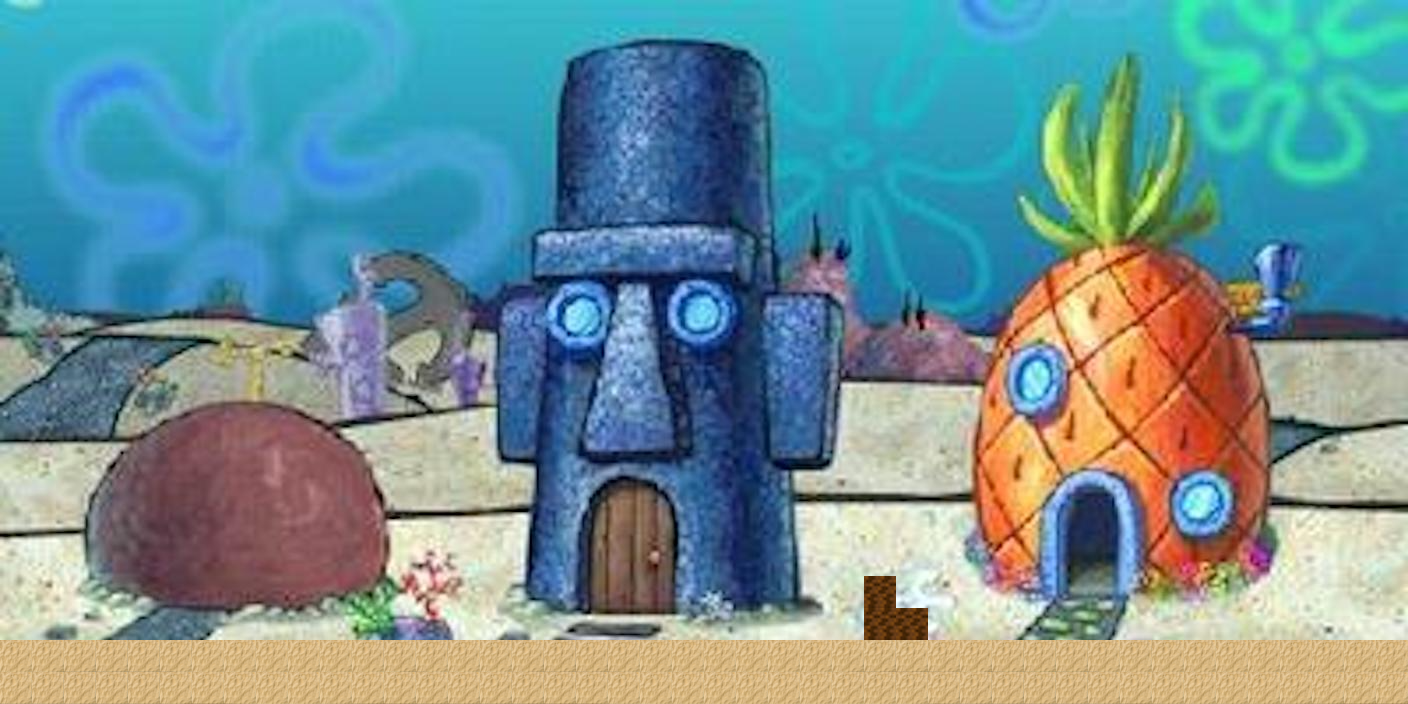
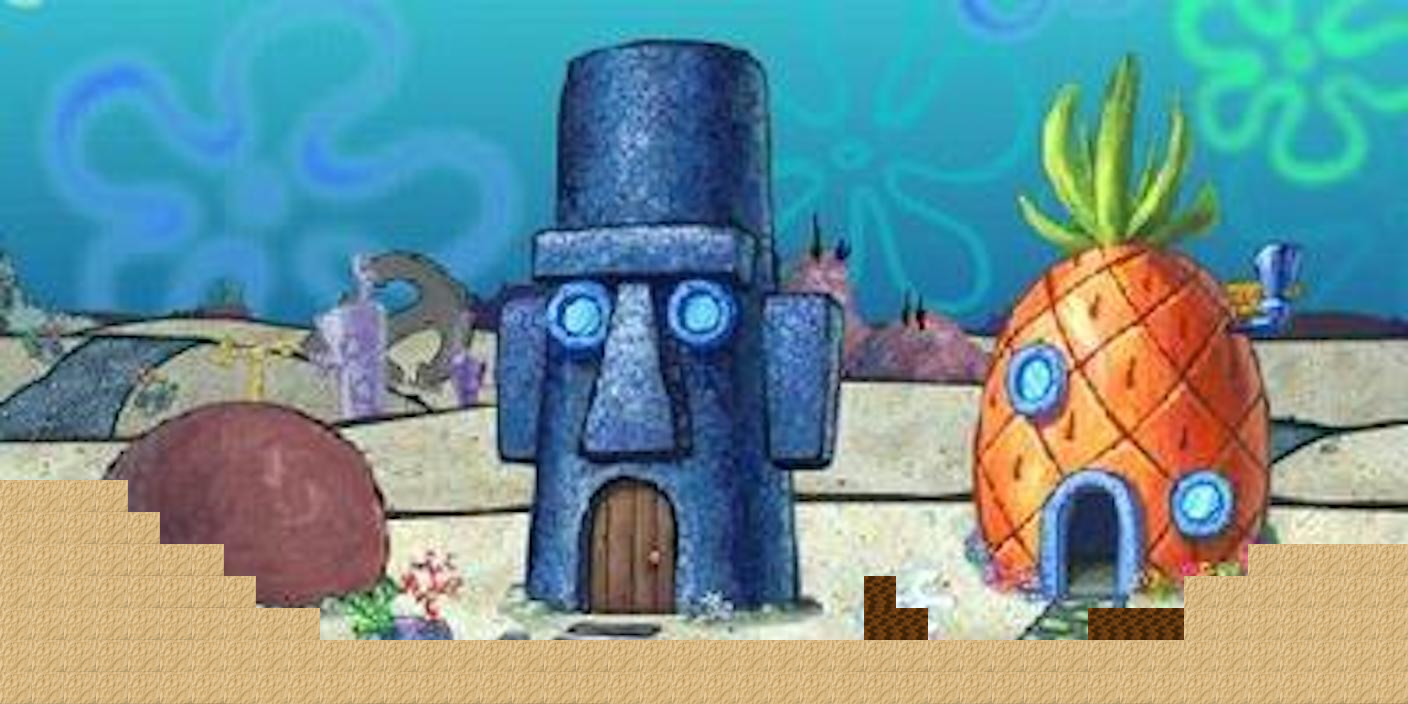
ecran de chargement terminé, manque plus que le menu et la gestion des armes + vies

Changed region(s): [[0.0, 0.6562, 0.25, 0.9062], [0.75, 0.75, 1.0, 0.9062]]

diff --git a/main.py b/main.py
@@ -4,6 +4,33 @@ from Class.gui import Angle, Energie
 from Class.joueur import Joueur, Bras
 from Class.monde import Monde
 
+chargement_etapes = 1
+
+pg.init()
+fenetre = pg.display.set_mode(RESOLUTION.size)
+
+
+def chargement():
+    font = pg.font.Font(None, 100)
+    nom_jeu = font.render("Projet Transverse", 1, (255, 255, 255))
+
+    fenetre.blit(nom_jeu, (400, 200))
+
+    pg.draw.rect(
+        fenetre, pg.color.Color('white'),
+        (300, 375, 825, 35)  # (abscisse,ordonné,longuer,hauteur)
+    )
+    pg.draw.rect(
+        fenetre, pg.color.Color('cadetblue4'),
+        (300, 375, 55 * chargement_etapes, 35)
+        # (abscisse,ordonné,longueur,hauteur)
+    )
+
+    pg.display.flip()
+
+
+chargement()
+
 
 def chargement_textures(theme: str):
     """
@@ -19,6 +46,8 @@ def chargement_textures(theme: str):
             texture_joueurs (list): Tableau avec les textures du joueur 1 et 2 ainsi que où ils regardent
             texture_bras (list): Tableau avec les textures du bras des joueurs 1 et 2 ainsi que où ils pointent
     """
+    global chargement_etapes
+
     texture_joueurs = [
         # Joueur 1
         {  # -1 Pour quand le joueur regarde a gauche
@@ -61,6 +90,9 @@ def chargement_textures(theme: str):
         }
     ]
 
+    chargement_etapes += 1
+    chargement()
+
     texture_bras = [
         {  # meme idée que plus haut mais cette foi on enregistre les
             # bras dans un dict
@@ -93,10 +125,15 @@ def chargement_textures(theme: str):
         texture_bras[1][-1][i] = pg.transform.flip(image_joueur2, True, False)
         texture_bras[1][1][i] = image_joueur2
 
+        chargement_etapes += 1
+        chargement()
+
     return texture_joueurs, texture_bras
 
 
-def chargement_niveau(screen, theme: str, id_niveau: int):
+def chargement_niveau(theme: str, id_niveau: int):
+    global chargement_etapes
+
     monde = Monde(theme)
     monde.chargement_map(1)
     monde.enregistrement_map()
@@ -109,64 +146,81 @@ def chargement_niveau(screen, theme: str, id_niveau: int):
                 id_niveau
             )).convert_alpha(),
         (0, 0))
-    screen.blit(fond, (0, 0))
+    fenetre.blit(fond, (0, 0))
     pg.display.flip()
+
+    chargement_etapes += 1
+    chargement()
 
     return monde, fond
 
 
-def application_texture(screen, monde, texture_joueurs, texture_bras, toutes_les_images):
+def application_texture(monde, texture_joueurs, texture_bras,
+                        toutes_les_images):
+    global chargement_etapes
+
     Joueur.containers = toutes_les_images
     Bras.containers = toutes_les_images
 
     joueur1 = Joueur(
-        screen.get_rect(),
+        fenetre.get_rect(),
         monde.params.get(1),
         texture_joueurs[0],
         regarde=1,  # vers ou doit le perso (1 : droite, -1 : gauche)
         peau=1  # peau du perso, 1 : joueur 1, 2 : joueur 2
     )
     joueur2 = Joueur(
-        screen.get_rect(),
+        fenetre.get_rect(),
         monde.params.get(2),
         texture_joueurs[1],
-        regarde=1,  # vers ou doit le perso (1 : droite, -1 : gauche)
+        regarde=-1,  # vers ou doit le perso (1 : droite, -1 : gauche)
         peau=2  # peau du perso, 1 : joueur 1, 2 : joueur 2
     )
 
+    chargement_etapes += 1
+    chargement()
+
     bras1 = Bras(
-        screen.get_rect(),
+        fenetre.get_rect(),
         monde.params.get(1),
         texture_bras[0],
         regarde=1,  # vers ou doit pointer le bras (1 : droite, -1 : gauche)
         peau=1  # bras du perso, 1 : joueur 1, 2 : joueur 2
     )
     bras2 = Bras(
-        screen.get_rect(),
+        fenetre.get_rect(),
         monde.params.get(2),
         texture_bras[1],
-        regarde=1,  # vers ou doit pointer le bras (1 : droite, -1 : gauche)
+        regarde=-1,  # vers ou doit pointer le bras (1 : droite, -1 : gauche)
         peau=2  # bras du perso, 1 : joueur 1, 2 : joueur 2
     )
+
+    chargement_etapes += 1
+    chargement()
 
     return joueur1, bras1, joueur2, bras2
 
 
 def main(theme: str, id_niveau: int):
-    pg.init()
     clock = pg.time.Clock()
     tour = 1
 
-    screen = pg.display.set_mode(RESOLUTION.size)
+    chargement()
 
-    monde, fond = chargement_niveau(screen, theme, id_niveau)
+    monde, fond = chargement_niveau(theme, id_niveau)
     texture_joueurs, texture_bras = chargement_textures(theme)
     toutes_les_images = pg.sprite.RenderUpdates()
     joueur1, bras1, joueur2, bras2 = application_texture(
-        screen, monde,
+        monde,
         texture_joueurs, texture_bras,
         toutes_les_images
     )
+
+    # Si on arrive ici, c'est que tout a été chargé donc on vire la barre de
+    # chargement en forcant l'affichage sur la fenetre du fond qui vient 
+    # d'etre chargé
+    fenetre.blit(fond, (0, 0))
+    pg.display.flip()
 
     text = pg.font.Font(None, 20)
     text.set_italic(True)
@@ -193,12 +247,12 @@ def main(theme: str, id_niveau: int):
                     event.type == pg.KEYDOWN and event.key == pg.K_ESCAPE):
                 return
 
-        keystate = pg.key.get_pressed()
-        toutes_les_images.clear(screen, fond)
+        touche_presse = pg.key.get_pressed()
+        toutes_les_images.clear(fenetre, fond)
         toutes_les_images.update()
 
         if joueurs.get(tour)[0].energie > 0:
-            direction = keystate[pg.K_RIGHT] - keystate[pg.K_LEFT]
+            direction = touche_presse[pg.K_RIGHT] - touche_presse[pg.K_LEFT]
 
             joueurs.get(tour)[0].move(direction, monde.hit_box())
 
@@ -207,23 +261,24 @@ def main(theme: str, id_niveau: int):
 
         if not joueurs.get(tour)[0].is_shooting:
             # player.get(turn)[0].rotate(keystate[pg.K_UP] - keystate[pg.K_DOWN])
-            joueurs.get(tour)[1].rotate(keystate[pg.K_UP] - keystate[pg.K_DOWN])
+            joueurs.get(tour)[1].rotate(
+                touche_presse[pg.K_UP] - touche_presse[pg.K_DOWN])
             angle_gui.angle = joueurs.get(tour)[1].angle
 
-            if keystate[pg.K_SPACE]:
+            if touche_presse[pg.K_SPACE]:
                 joueurs.get(tour)[0].is_shooting = True
                 tomato = Tomato(
-                    screen_rect=screen.get_rect(),
+                    screen_rect=fenetre.get_rect(),
                     velocity=150, x=joueurs.get(tour)[0].get_pos()[0],
                     y=joueurs.get(tour)[0].get_pos()[1],
-                    direction=joueurs.get(tour)[0].facing,
+                    direction=joueurs.get(tour)[0].regarde,
                     angle=joueurs.get(tour)[1].angle,
                     adv=joueurs.get(tour % 2 + 1)[0].get_pos(),
-                    world=tour.hit_box()
+                    world=monde.hit_box()
                 )
                 tomato.update()
 
-        floor = toutes_les_images.draw(screen)
+        floor = toutes_les_images.draw(fenetre)
         pg.display.update(floor)
 
         clock.tick(20)

diff --git a/Class/joueur.py b/Class/joueur.py
@@ -4,8 +4,6 @@ from .constants import LARGEUR_TUILE, HAUTEUR_TUILE
 
 
 class Joueur(pg.sprite.Sprite):
-    energie: 100
-    vie: 100
     vitesse = 5
     bonds = 10
 
@@ -21,10 +19,12 @@ class Joueur(pg.sprite.Sprite):
 
         self.rect = self.image.get_rect(
             midbottom=(
-                (pos[1] + 1) * LARGEUR_TUILE,
-                (pos[0] + 1) * HAUTEUR_TUILE
+                (pos[0] + 1) * LARGEUR_TUILE,
+                (pos[1] + 1) * HAUTEUR_TUILE
             )
         )
+        self.energie = 100
+        self.vie = 100
         self.origtop = self.rect.top
 
     def move(self, direction, world):
@@ -60,7 +60,9 @@ class Bras(pg.sprite.Sprite):
 
         self.image = self.images.get(regarde).get(self.angle)
         self.rect = self.image.get_rect(
-            midbottom=((pos[1] + 1) * LARGEUR_TUILE, (pos[0] + 1) * HAUTEUR_TUILE)
+            midbottom=(
+                (pos[0] + 1) * LARGEUR_TUILE,
+                (pos[1] + 1) * HAUTEUR_TUILE)
         )
         self.origtop = self.rect.top
 

diff --git a/Class/monde.py b/Class/monde.py
@@ -91,14 +91,14 @@ class Monde:
     def hit_box(self) -> list:
         hit_box = []
 
-        y_max = int(self.screen_height / self.tile_height)
-        x_max = int(self.screen_width / self.tile_width)
+        x_max = self.largeur_screen // LARGEUR_TUILE
+        y_max = self.hauteur_screen // HAUTEUR_TUILE
 
         for i in range(0, y_max):
             for j in range(0, x_max):
-                x = j * self.tile_width
-                y = i * self.tile_height
-                item = self.level.layouts[i][j]
+                x = j * LARGEUR_TUILE
+                y = i * HAUTEUR_TUILE
+                item = self.niveau[i][j]
 
                 if item != 0:
                     hit_box.append((x, y))

diff --git a/Class/gui.py b/Class/gui.py
@@ -26,12 +26,12 @@ class Energie(pg.sprite.Sprite):
         self.texte = pg.font.Font(None, 40)
         self.texte.set_bold(1)
         self.couleur = pg.Color("Black")
+        self.energie = 100
         self.update()
         self.rect = self.image.get_rect().move(10, 50)
-        self.energie = 100
 
     def update(self):
-        text = f"Energy: {self.energie}%"
+        text = f"Energie: {self.energie}%"
 
         if self.energie == 0:
             self.texte.set_underline(True)

diff --git a/Class/constants.py b/Class/constants.py
@@ -15,5 +15,5 @@ ACCES_TUILES = "themes/{}/tuiles"
 ACCES_TERRAINS = "themes/{}/terrains"
 ACCES_JOUEUR = "themes/{}/joueur"
 
-LARGEUR_JOUEUR = 128
-HAUTEUR_JOUEUR = 128
+LARGEUR_JOUEUR = 64
+HAUTEUR_JOUEUR = 64

diff --git a/themes/bob/terrains/1/params.py b/themes/bob/terrains/1/params.py
@@ -1,2 +1,2 @@
-pos_perso1 = (3, 16)  # x=3, y=16
-pos_perso2 = (18, 16)  # x=18, y=16
+pos_perso1 = (2, 14)  # x=2, y=14
+pos_perso2 = (41, 16)  # x=41, y=16
